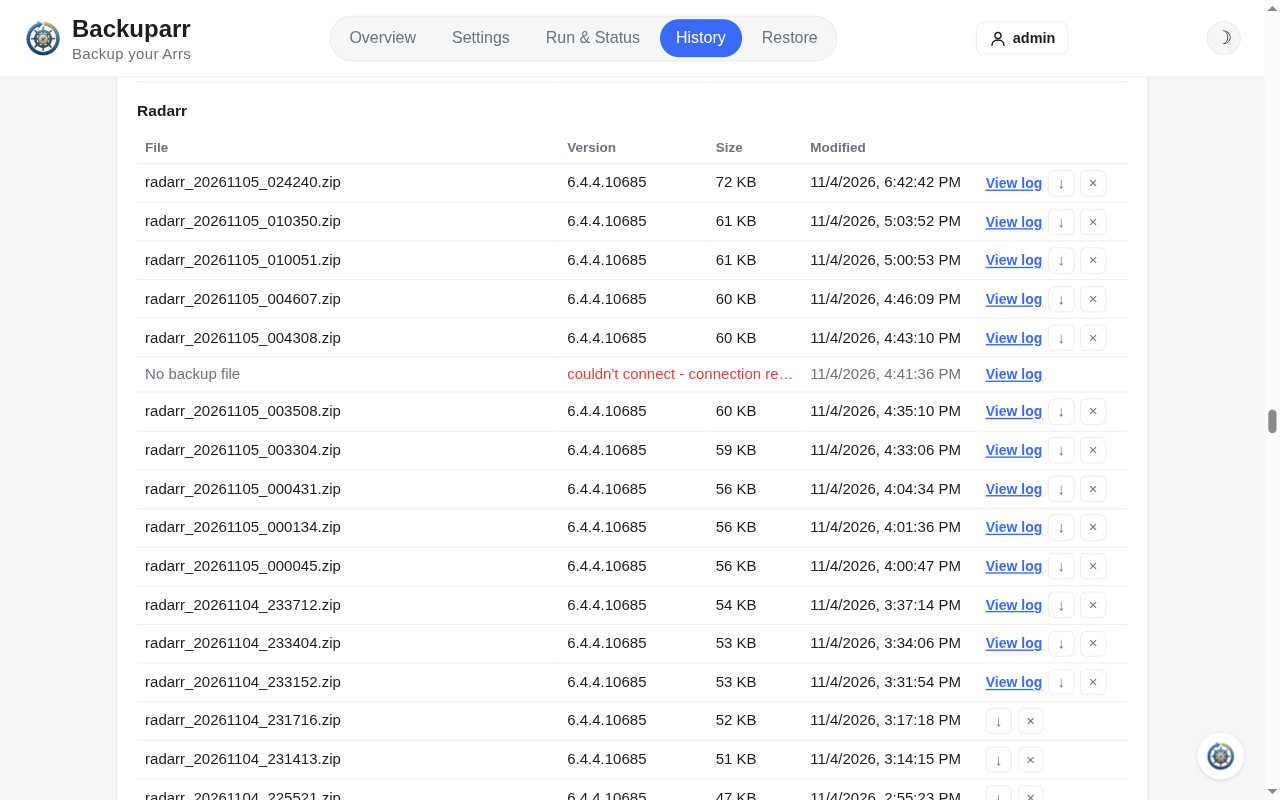
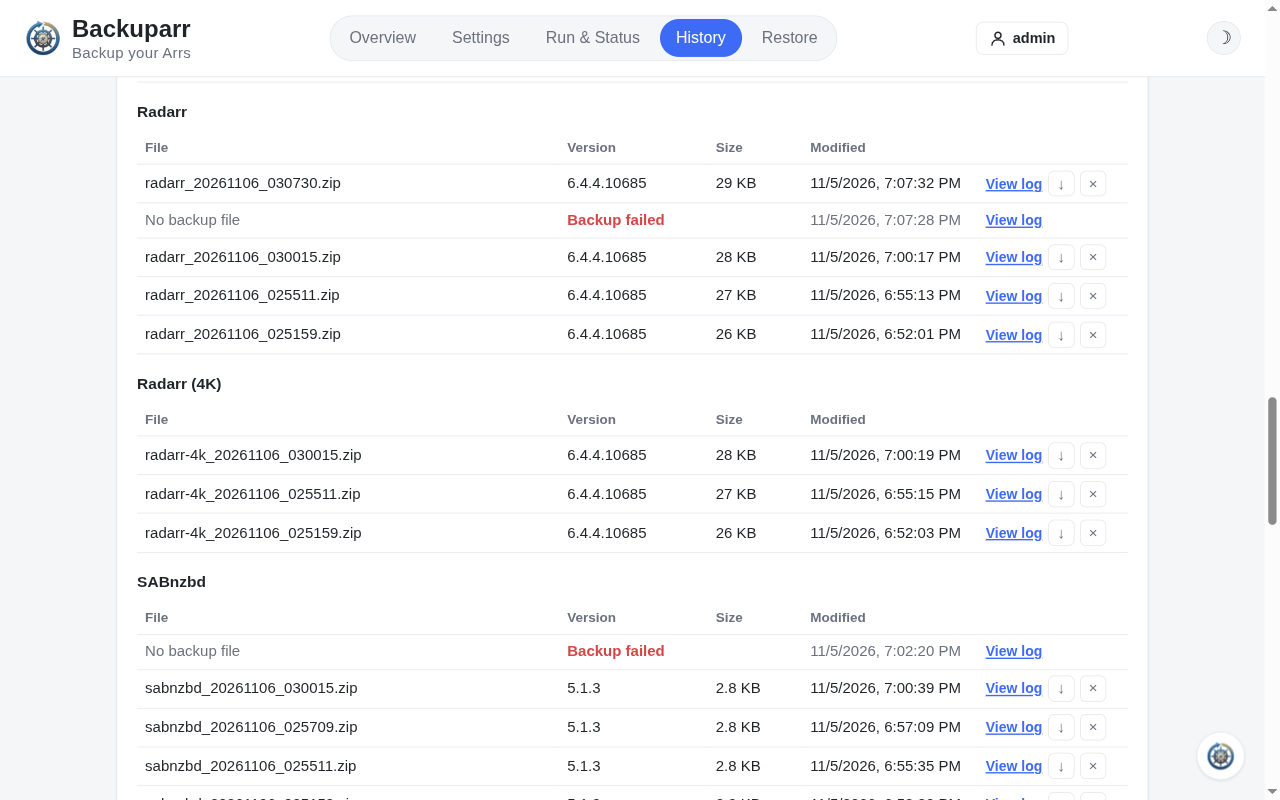
Fit the top bar and History on phones; show failed runs as Backup failed
The tabs sit full width under the brand on narrow screens instead of
pushing the page sideways, and History lists each backup as a block.
A run that left no backup reads Backup failed, with the reason in its
log. A run whose upload worked but whose file was later deleted or
pruned on that destination is no longer listed there as failed.

diff --git a/webui/static/style.css b/webui/static/style.css
@@ -141,6 +141,34 @@ body {
   color: var(--accent-contrast);
 }
 
+/* Narrow screens: brand and account on one row, the tabs across the full
+   width below, sized to fit (scrolling inside the bar on the narrowest). */
+@media (max-width: 860px) {
+  .topbar { padding: 10px 12px; gap: 10px; }
+  .brand { margin-right: auto; }
+  .tabs {
+    order: 3;
+    width: 100%;
+    overflow-x: auto;
+    scrollbar-width: none;
+  }
+  .tabs::-webkit-scrollbar { display: none; }
+  .tab-btn { flex: 1 1 auto; padding: 6px 8px; white-space: nowrap; }
+}
+
+@media (max-width: 480px) {
+  .brand-mark { width: 32px; height: 32px; }
+  .brand-name { font-size: 20px; }
+  .brand-tagline { font-size: 13px; }
+  .tabs { gap: 2px; }
+  .tab-btn { font-size: 14px; padding: 6px 4px; }
+}
+
+@media (max-width: 360px) {
+  .user-name { display: none; }
+  .tab-btn { font-size: 13px; padding: 5px 3px; }
+}
+
 .theme-toggle {
   border: 1px solid var(--border);
   background: var(--bg);
@@ -1279,8 +1307,26 @@ code {
 .overview-links { display: flex; flex-wrap: wrap; gap: 6px 16px; margin-top: 10px; font-size: 14.5px; }
 .overview-links .overview-download-link { margin-top: 0; }
 .history-table tr.history-missing td { color: var(--text-muted); }
-.history-table tr.history-missing td.history-reason { color: var(--danger); white-space: nowrap; overflow: hidden; text-overflow: ellipsis; }
+.history-table tr.history-missing td.history-reason { color: var(--danger); font-weight: 600; white-space: nowrap; }
 .history-table td.actions-cell .link-btn { font-size: 14px; margin-right: 6px; }
+
+/* Narrow screens: each backup is a block - the file name, then version, size
+   and time on one line with its actions. */
+@media (max-width: 719px) {
+  .history-table thead { display: none; }
+  .history-table, .history-table tbody { display: block; }
+  .history-table tr {
+    display: flex;
+    flex-wrap: wrap;
+    align-items: center;
+    gap: 2px 10px;
+    padding: 8px 0;
+    border-bottom: 1px solid var(--border);
+  }
+  .history-table td { padding: 0; border: none; font-size: 14px; color: var(--text-muted); }
+  .history-table td:first-child { flex-basis: 100%; color: var(--text); font-size: 15px; overflow-wrap: anywhere; }
+  .history-table td.actions-cell { margin-left: auto; width: auto; }
+}
 
 /* ------------------------------------------------------ encryption key --- */
 .key-box {

diff --git a/webui/static/app.js b/webui/static/app.js
@@ -2200,21 +2200,18 @@ function appLabel(appId) {
   return isExtraInstance(appId) ? `${m.label} (${INSTANCE_NAMES.get(appId) || appId.slice(m.id.length + 1)})` : m.label;
 }
 
-// A run that left no file on this destination: greyed, with the reason in
-// place of a size, and only its log.
+// A run that left no file on this destination: greyed, "Backup failed" in
+// place of a version and size, and its log, which says why.
 function missingHistoryRow(appId, e) {
   const tr = document.createElement("tr");
   tr.className = "history-missing";
-  // The reason spans the Version and Size columns, on one line; the full
-  // text is its tooltip and in the log.
-  const cells = [e.name || "No backup file", e.reason, fmtTime(e.mod_time)].map((text) => {
+  const cells = [e.name || "No backup file", "Backup failed", fmtTime(e.mod_time)].map((text) => {
     const td = document.createElement("td");
     td.textContent = text;
     return td;
   });
   cells[1].className = "history-reason";
   cells[1].colSpan = 2;
-  cells[1].title = e.reason;
   const actionsTd = document.createElement("td");
   actionsTd.className = "actions-cell";
   actionsTd.appendChild(viewLogButton(appId, e.run_id));

diff --git a/webui/backups.py b/webui/backups.py
@@ -56,7 +56,9 @@ def _when(timestamp):
 def _add_runs(history, dest_id):
     """Links each backup to the run log that made it, and lists the runs
     that left no file on this destination - the backup failed, or its
-    upload here did - with the reason."""
+    upload here did - with the reason. A run whose upload here worked but
+    whose file is gone (this destination's retention, or a delete) isn't
+    a failure, so it isn't listed."""
     for app_name, app_runs in runlog.all_runs().items():
         if not destination_util.is_backup_folder(app_name):  # an app, an instance or Backuparr's own
             continue
@@ -69,6 +71,8 @@ def _add_runs(history, dest_id):
             if dest_id not in run.get("destinations", {}):
                 continue  # this destination wasn't on in that run
             result = run["destinations"][dest_id] or {}
+            if result.get("ok"):
+                continue
             entries.append({
                 "name": run.get("file") or "", "size": None, "mod_time": run.get("finished") or run.get("started"),
                 "app_version": run.get("app_version"), "recorded": True, "run_id": run["id"], "missing": True,

diff --git a/tests/test_runlog.py b/tests/test_runlog.py
@@ -215,6 +215,15 @@ def test_history_links_backups_to_their_runs_and_lists_runs_that_left_no_file(au
     ]
 
 
+def test_a_run_whose_file_this_destinations_retention_removed_isnt_listed_as_failed(authed_client, listing):
+    # Uploaded here, pruned here sooner than on a destination that keeps it longer (#133).
+    runlog.save(run("radarr", "20261101_030000", destinations={"local": {"ok": True, "error": None}, "gdrive": {"ok": True, "error": None}}))
+    listing.append("radarr/radarr_20261102_030000.zip")
+    runlog.save(run("radarr", "20261102_030000"))
+    rows = authed_client.get("/api/history/local").get_json()["radarr"]
+    assert [(r["name"], r.get("missing", False)) for r in rows] == [("radarr_20261102_030000.zip", False)]
+
+
 def test_history_links_backuparrs_own_backups_to_their_runs(authed_client, listing):
     listing.append("backuparr/backuparr_20261101_030000.enc")
     own = run("backuparr", "20261101_030000")

diff --git a/docs/backups.md b/docs/backups.md
@@ -47,7 +47,8 @@ latest run is always kept.
 
 - **View log** on an app's Overview tile shows its latest run.
 - On the History tab, each backup has its own log. A run that left no backup
-  on that destination is listed greyed out, with the reason.
+  on that destination is listed greyed out as **Backup failed**; its log
+  says why.
 
 ![An app's run log: when it ran, the app version, the file it made and where it was uploaded, then the log lines]({{ '/screenshots/run-log.png' | relative_url }})
 
@@ -58,7 +59,7 @@ the app version each one came from. You can download or delete any of them, or
 open its log. Backuparr's own backups are listed under "Backuparr's own
 configuration".
 
-![History tab: Radarr's backups with their version, size and date, View log, download and delete buttons, and a failed run greyed out with its reason]({{ '/screenshots/history.png' | relative_url }})
+![History tab: Radarr's backups with their version, size and date, View log, download and delete buttons, and a failed run greyed out as Backup failed]({{ '/screenshots/history.png' | relative_url }})
 
 ## The backup record
 

diff --git a/CHANGELOG.md b/CHANGELOG.md
@@ -9,6 +9,15 @@ format is based on [Keep a Changelog](https://keepachangelog.com/en/1.1.0/).
 
 - Each destination can keep backups for its own number of days, for example 28 on Local storage and 7 on Google Drive (Retention on its card in Settings; blank uses the default). The Overview then shows each destination's retention (#133). Thanks to @Tharic99 for the request.
 
+### Changed
+
+- History shows a run that left no backup as **Backup failed**; **View log** has the reason.
+
+### Fixed
+
+- The top bar fits on phones instead of pushing the page sideways, and History lists each backup as a block on narrow screens.
+- A backup deleted from one destination, or removed there by its retention, no longer shows there as a failed run.
+
 ## [2.5.4] - 2026-11-05
 
 ### Fixed
